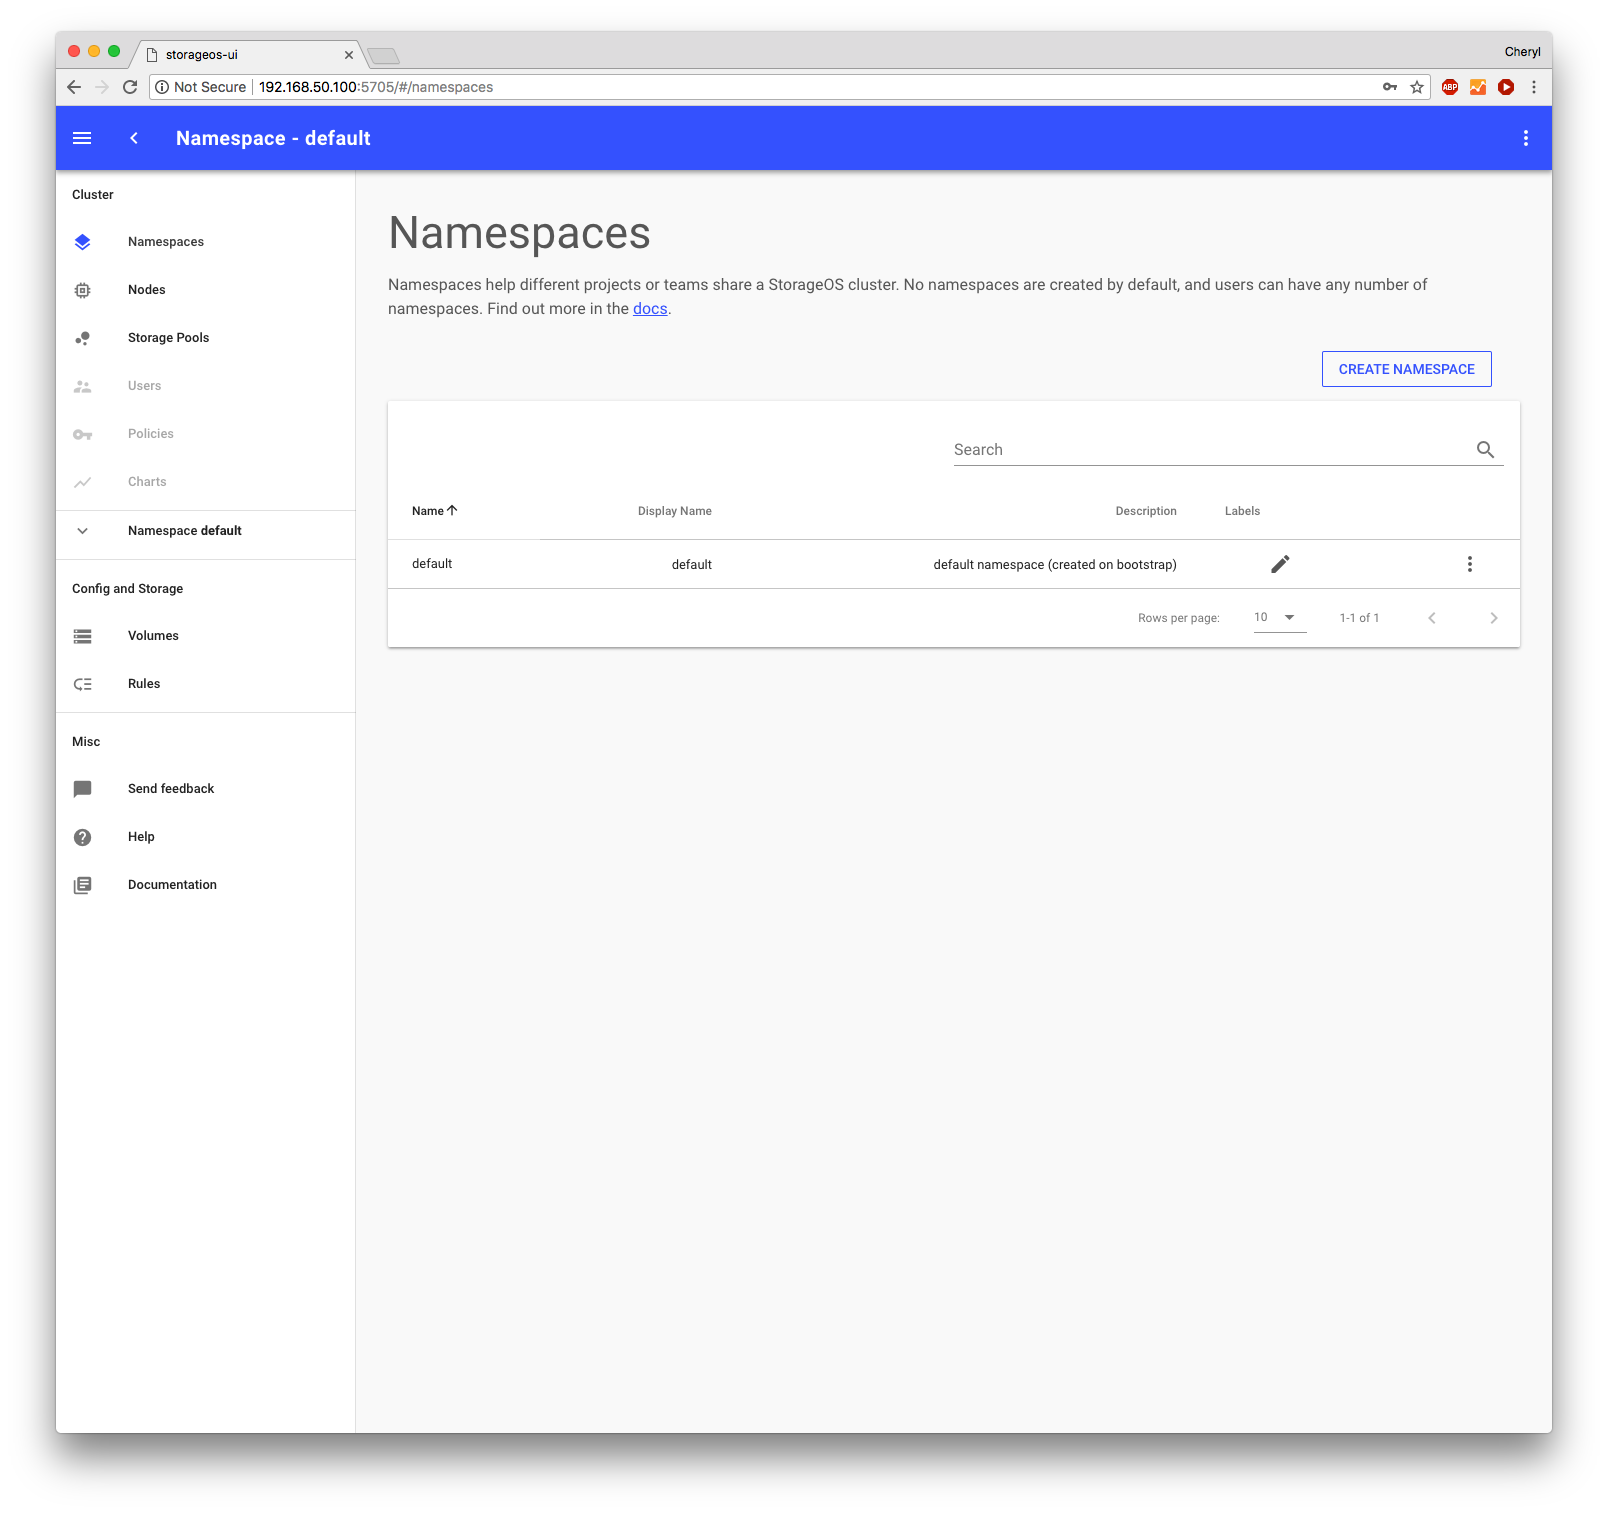
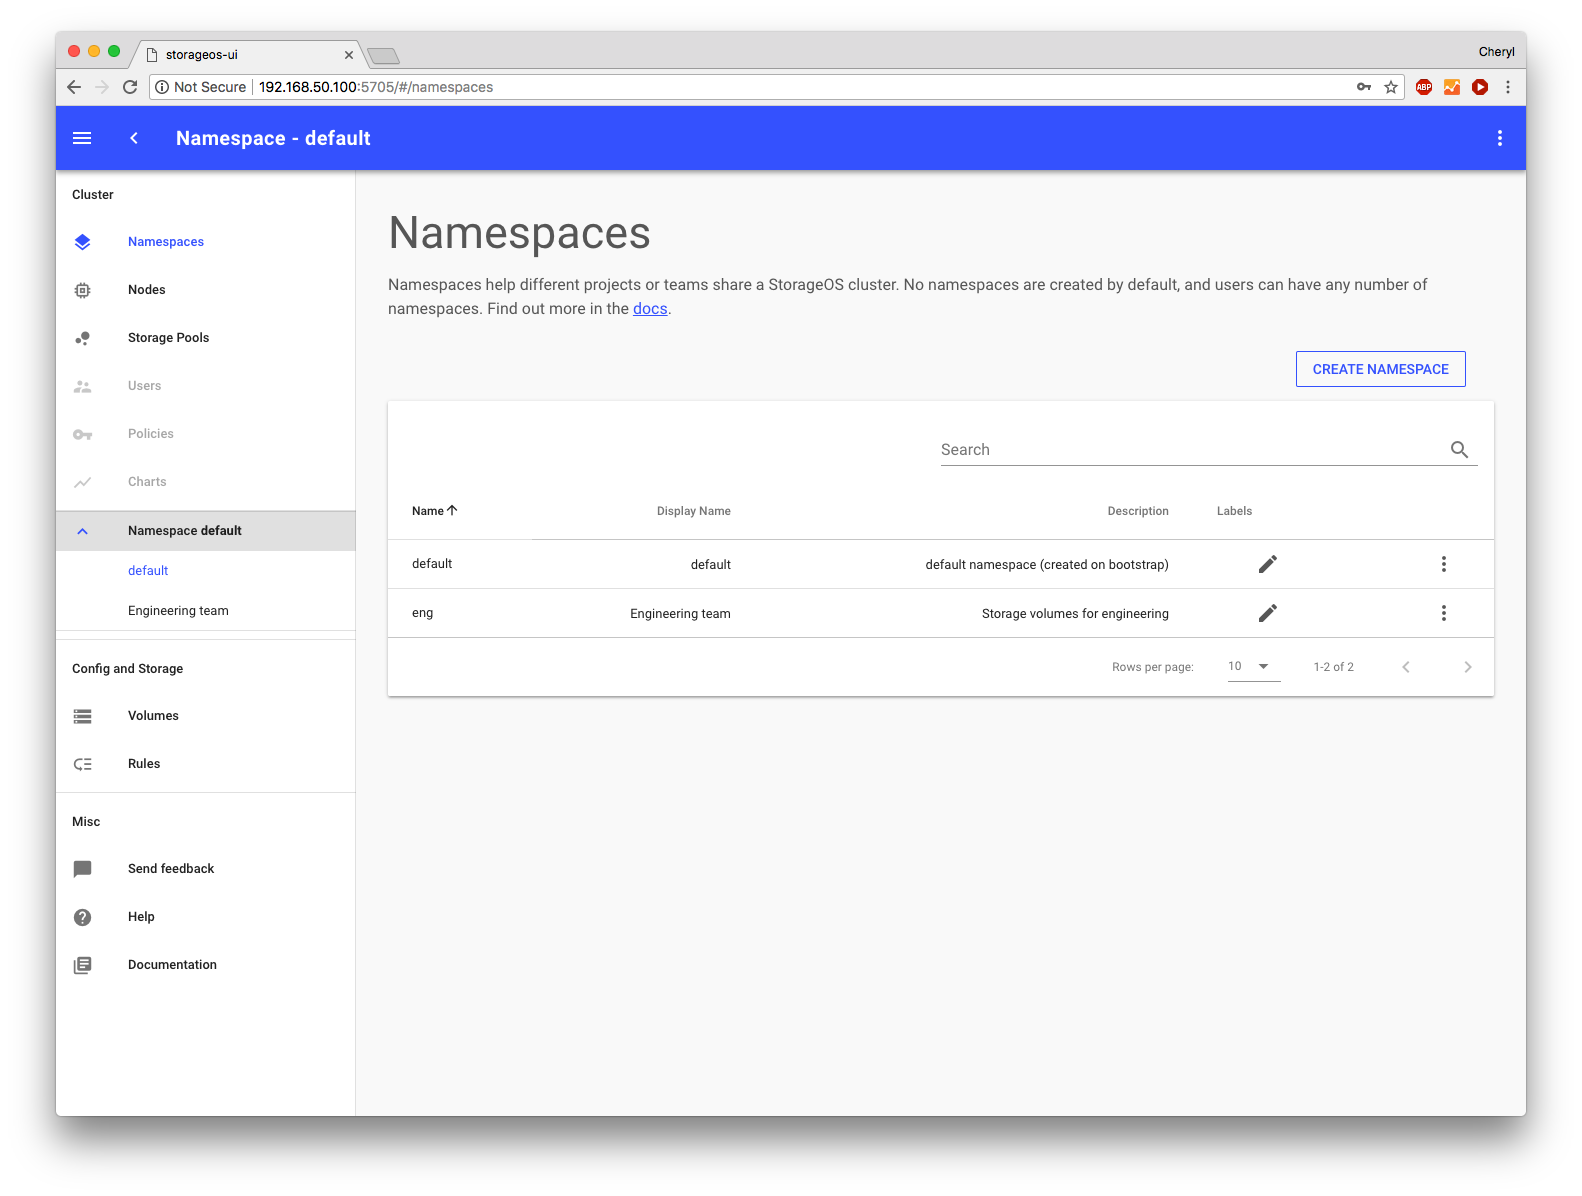
Add more detail to GUI

diff --git a/_docs/reference/gui.md b/_docs/reference/gui.md
@@ -9,17 +9,35 @@ module: reference/gui
 
 StorageOS provides a GUI for cluster and volume management.
 
-**Note**: This feature is in beta as of version 0.10.0.
+>**Note**: This feature is in beta as of version 0.10.0.
 
-The GUI is available at port 5705 on any one of the nodes in the cluster.
+The GUI is available at port 5705 on any of the nodes in the cluster. Initally
+you can log in as the default administrator, using the username `storageos` and
+password `storageos`.
+
+![Logging in](/images/docs/gui/login.png)
 
 ## Manage cluster nodes and pools
 
-![image](/images/docs/gui/nodes.png)
-![image](/images/docs/gui/pools.png)
+The nodes and pools page allow you to manage cluster nodes and storage pool. In this example, this cluster consists of three nodes with 35.9GB capacity each. The default storage pool contains all three nodes, giving a total of 107.6GB.
+
+![Managing nodes](/images/docs/gui/nodes.png)
+![Managing storage pools](/images/docs/gui/pools.png)
 
 ## Create and view volumes
 
-![image](/images/docs/gui/create-volume.png)
-![image](/images/docs/gui/volumes.png)
-![image](/images/docs/gui/volume-details.png)
+You can create volumes, including replicated volumes, and view volume details:
+
+![Creating a volume](/images/docs/gui/create-volume.png)
+![Viewing storage volumes](/images/docs/gui/volumes.png)
+![Viewing details of a volume](/images/docs/gui/volume-details.png)
+
+## Managing volumes with namespaces and rules
+
+Volumes can be namespaced across different projects or teams, and you can switch namespace using the left hand panel:
+
+![Viewing namespaces](/images/docs/gui/namespaces.png)
+
+Data policy and placement is enforced using rules:
+
+![Viewing rules](/images/docs/gui/rules.png)
